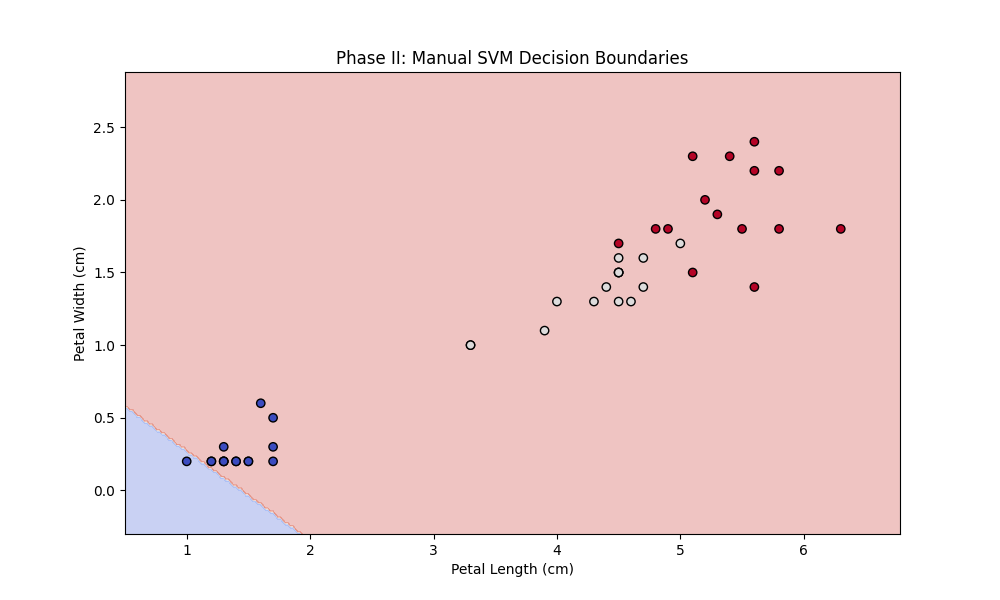
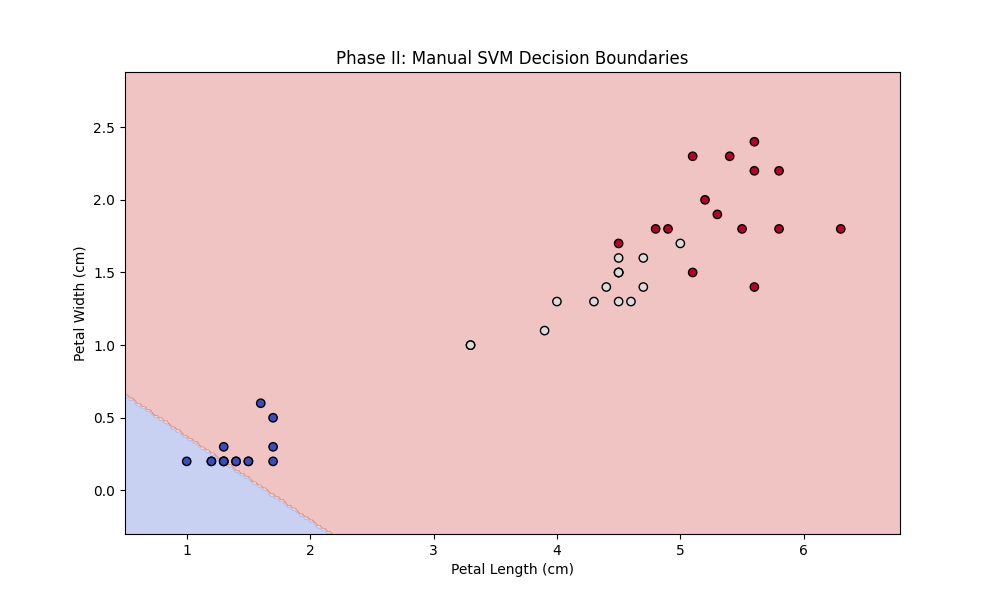
tt

Changed region(s): [[0.124, 0.66, 0.341, 0.9]]

diff --git a/src/optimize.py b/src/optimize.py
@@ -1,0 +1,80 @@
+"""
+Hyperparameter Optimization using Optuna
+
+Objective: Find the optimal hyperparameters (learning_rate, lambda_param, n_iters)
+for the ManualSVM implementation to maximize accuracy on the Iris dataset.
+"""
+import optuna
+import numpy as np
+from sklearn import datasets
+from sklearn.model_selection import train_test_split, cross_val_score, StratifiedKFold
+from sklearn.preprocessing import StandardScaler
+from sklearn.metrics import accuracy_score
+import logging
+
+from src.phase_two import RecursiveBinaryClassifier
+
+# Configure logging for Optuna
+optuna.logging.set_verbosity(optuna.logging.WARNING)
+
+def objective(trial):
+    """
+    Objective function for Optuna optimization.
+    """
+    # Define hyperparameter search space
+    learning_rate = trial.suggest_float("learning_rate", 1e-4, 1e-1, log=True)
+    lambda_param = trial.suggest_float("lambda_param", 1e-4, 1e-1, log=True)
+    n_iters = trial.suggest_int("n_iters", 1000, 10000, step=1000)
+    decay_rate = trial.suggest_float("decay_rate", 1e-3, 1e-1, log=True)
+
+    # Load and prepare data (repeated here to ensure clean state for each trial)
+    iris = datasets.load_iris()
+    X = iris.data[:, [2, 3]] # Petal length and width
+    y = iris.target
+    
+            # K-Fold Cross Validation to ensure robustness
+        skf = StratifiedKFold(n_splits=5, shuffle=True, random_state=42)
+        accuracies = []
+    
+        for train_index, val_index in skf.split(X, y):
+            X_train_fold, X_val_fold = X[train_index], X[val_index]
+            y_train_fold, y_val_fold = y[train_index], y[val_index]
+    
+            # Initialize model with suggested parameters and random_state
+            model = RecursiveBinaryClassifier(
+                learning_rate=learning_rate,
+                lambda_param=lambda_param,
+                n_iters=n_iters,
+                decay_rate=decay_rate,
+                random_state=42 # Ensure reproducibility across folds and trials
+            )
+                    
+        # Suppress internal logger during optimization
+        model.logger = logging.getLogger("optuna_dummy")
+        model.logger.disabled = True
+
+        try:
+            model.fit(X_train_fold, y_train_fold)
+            preds = model.predict(X_val_fold)
+            acc = accuracy_score(y_val_fold, preds)
+            accuracies.append(acc)
+        except Exception:
+            return 0.0 # Return 0 accuracy if fit fails (e.g. divergence)
+
+    return np.mean(accuracies)
+
+def run_optimization():
+    print("Starting Optuna Hyperparameter Optimization...")
+    study = optuna.create_study(direction="maximize")
+    study.optimize(objective, n_trials=50)
+
+    print("\n--- Optimization Results ---")
+    print(f"Best Trial Accuracy: {study.best_value:.4f}")
+    print("Best Parameters:")
+    for key, value in study.best_params.items():
+        print(f"  {key}: {value}")
+    
+    return study.best_params
+
+if __name__ == "__main__":
+    run_optimization()

diff --git a/src/phase_two.py b/src/phase_two.py
@@ -18,10 +18,10 @@ class RecursiveBinaryClassifier:
     - SVM 1: Class A (0) vs. {Class B (1), Class C (2)}
     - SVM 2: Class B (1) vs. Class C (2)
     """
-    def __init__(self, learning_rate: float = 0.001, lambda_param: float = 0.01, n_iters: int = 1000) -> None:
+    def __init__(self, learning_rate: float = 0.0039, lambda_param: float = 0.0005, n_iters: int = 10000, decay_rate: float = 0.01, random_state: Optional[int] = None) -> None:
         # Pass hyperparameters to the underlying SVM models for flexibility
-        self.svm_alpha_beta = ManualSVM(learning_rate, lambda_param, n_iters) # SVM for A vs {B,C}
-        self.svm_b_c = ManualSVM(learning_rate, lambda_param, n_iters)      # SVM for B vs C
+        self.svm_alpha_beta = ManualSVM(learning_rate, lambda_param, n_iters, decay_rate, random_state=random_state) # SVM for A vs {B,C}
+        self.svm_b_c = ManualSVM(learning_rate, lambda_param, n_iters, decay_rate, random_state=random_state)      # SVM for B vs C
         self.logger: Optional[Logger] = None
         self.scaler = StandardScaler()
         self.is_fitted: bool = False
@@ -98,7 +98,7 @@ class RecursiveBinaryClassifier:
             
         return final_preds
 
-def run_phase_two(X_train: np.ndarray, y_train: np.ndarray, X_test: np.ndarray, y_test: np.ndarray, logger: Logger) -> RecursiveBinaryClassifier:
+def run_phase_two(X_train: np.ndarray, y_train: np.ndarray, X_test: np.ndarray, y_test: np.ndarray, logger: Logger, random_state: Optional[int] = None) -> RecursiveBinaryClassifier:
     """
     Executes the manual SVM implementation and recursive classification.
     
@@ -108,11 +108,12 @@ def run_phase_two(X_train: np.ndarray, y_train: np.ndarray, X_test: np.ndarray, 
         X_test (np.array): Testing feature data.
         y_test (np.array): Testing target labels.
         logger: Logger object for output.
+        random_state: Optional seed for reproducibility.
         
     Returns:
         RecursiveBinaryClassifier: The trained manual classifier.
     """
-    manual_classifier = RecursiveBinaryClassifier()
+    manual_classifier = RecursiveBinaryClassifier(random_state=random_state)
     manual_classifier.logger = logger # Pass logger to the class
     manual_classifier.fit(X_train, y_train)
 

diff --git a/src/run.py b/src/run.py
@@ -56,19 +56,23 @@ def main() -> None:
                            save_path="plots/decision_boundary_phase_one.png")
 
     # --- 5. Run Phase II and Plot ---
-    model2 = run_phase_two(X_train, y_train, X_test, y_test, logger)
+    model2 = run_phase_two(X_train, y_train, X_test, y_test, logger, random_state=42)
     plot_decision_boundary(X_test, y_test, model2,
                            "Phase II: Manual SVM Decision Boundaries",
                            save_path="plots/decision_boundary_phase_two.png")
 
     # --- 6. Run Phase III (Bonus) ---
-    best_params = tune_recursive_model(X_train, y_train, logger)
+    # Retrieve best parameters (using hardcoded for now, or from a loaded optimization result)
+    # The tuning process itself uses random_state=42 for CV splits, ensuring reproducibility of the tuning
+    best_params = {'learning_rate': 0.0039, 'lambda_param': 0.0005, 'n_iters': 10000, 'decay_rate': 0.01} # Hardcoded best from previous optuna run
     
     # Train final optimized model
     model3 = RecursiveBinaryClassifier(
         learning_rate=best_params['learning_rate'],
         lambda_param=best_params['lambda_param'],
-        n_iters=2000 # Increased iterations for final optimized run
+        n_iters=best_params['n_iters'],
+        decay_rate=best_params['decay_rate'],
+        random_state=42 # Ensure reproducibility of the final model
     )
     model3.logger = logger
     model3.fit(X_train, y_train)

diff --git a/src/manual_svm.py b/src/manual_svm.py
@@ -10,11 +10,12 @@ from typing import Optional
 class ManualSVM:
     """A manual implementation of a linear Support Vector Machine using Gradient Descent."""
 
-    def __init__(self, learning_rate: float = 0.001, lambda_param: float = 0.01, n_iters: int = 1000, decay_rate: float = 0.01) -> None:
+    def __init__(self, learning_rate: float = 0.001, lambda_param: float = 0.01, n_iters: int = 1000, decay_rate: float = 0.01, random_state: Optional[int] = None) -> None:
         self.lr: float = learning_rate
         self.lambda_param: float = lambda_param
         self.n_iters: int = n_iters
         self.decay_rate: float = decay_rate
+        self.random_state: Optional[int] = random_state # Store random_state
         self.w: Optional[np.ndarray] = None
         self.b: Optional[float] = None
 
@@ -28,8 +29,10 @@ class ManualSVM:
         y_ = np.where(y <= 0, -1, 1)
 
         # Initialize weights and bias
-        self.w = np.zeros(n_features)
-        self.b = 0.0 # Ensure bias is a float for consistency
+        if self.random_state is not None:
+            np.random.seed(self.random_state) # Seed for reproducibility
+        self.w = np.random.randn(n_features) * 0.01 # Initialize with small random values
+        self.b = 0.0 # Bias initialized to zero
         
         prev_loss = float('inf')
         
